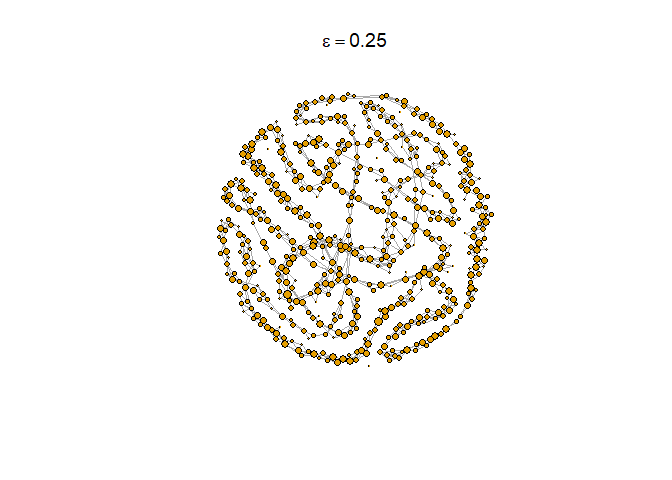
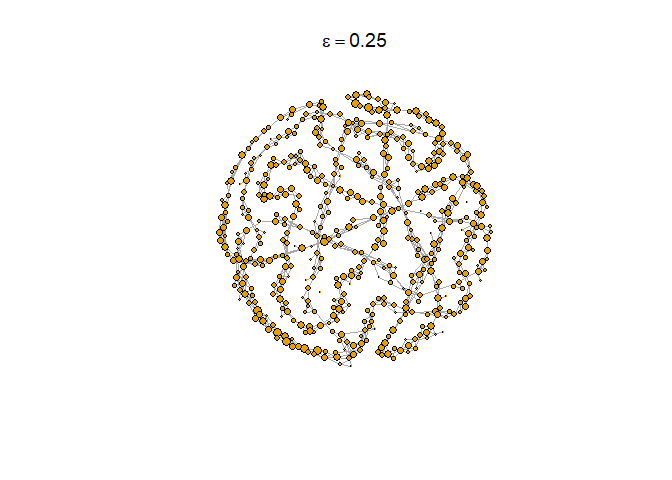
add math and sectioning to readme

Changed region(s): [[0.3125, 0.1875, 0.75, 0.7812]]

diff --git a/README.md b/README.md
@@ -28,9 +28,125 @@ If you’re installing from Github, you might need to do some more stuff:
 - **OS X:** install Xcode (from the Mac App Store)
 - **Linux:** run `apt-get install r-base-dev` (or similar).
 
-## Examples
+## Mathy Overview
+
+Mapper is a way to view a point cloud $P$ through a “lens” of our
+choice.
+
+Consider a function $$f: P \to \mathbb{R}$$. Cover $\mathbb{R}$ in a set
+of intervals $\{I_i\}_{i=1}^n$, so that every point in $P$ is contained
+in some level set $L_i = f^{-1}(I_i)$. We may then construct a graph
+$$G = (V,E)$$ based on this cover to reflect the original data, where
+$$V = \{L_i \mid L_i \neq \varnothing\}$$, and
+$$E = \{\{L_i, L_j\}\mid L_i\cap L_j \neq \varnothing,\ i\neq j\}$$
+
+This is the basic idea of the mapper algorithm, with the addition that
+each level set is first refined into clusters based on the intrinsic
+pairwise distances of the data according to some clustering algorithm.
+That is, we partition each level set $L_i$ into $k_i$ disjoint clusters
+$\{C_j\}_{j=1}^{k_i}$ and build a new graph $G' = (V', E')$ that is
+homomorphic to $G$ defined by
+$$V' = \bigsqcup_{i=1}^{n}\{C_j\}_{j=1}^{k_i}$$ and
+$$E' = \{\{C_i, C_j\}\mid C_i\cap C_j \neq \varnothing\}$$
+
+So in general, the ingredients to construct a mapper graph are
+
+- A data set, along with their pairwise distances
+- A *lens* function with the data as its domain (above this was
+  real-valued, but it does not have to be)
+- A cover of the codomain of the lens function
+- A clustering algorithm
+
+## Example: 1D Mapper
+
+``` r
+num_points = 5000
+
+P.data = data.frame(
+  x = sapply(1:num_points, function(x)
+    sin(x) * 10) + rnorm(num_points, 0, 0.1),
+  y = sapply(1:num_points, function(x)
+    cos(x) ^ 2 * sin(x) * 10) + rnorm(num_points, 0, 0.1),
+  z = sapply(1:num_points, function(x)
+    10 * sin(x) ^ 2 * cos(x)) + rnorm(num_points, 0, 0.1)
+)
+
+P.dist = dist(P.data)
+```
+
+Here is a point cloud $P$ formed by adding a bit of uniform noise to
+5000 points regularly sampled from the parametric curve
+
+$$\gamma(t) = \begin{cases}x = 10\sin(x)\\ y=10\sin(x)\cos^2(x)\\ z=10\sin^2(x)\cos(x) \end{cases}$$
+<img src="README_files/figure-gfm/fig8-1.png" />
+
+This seems to form a kind of figure-8 curve just based on this
+projection. But as we can see from the 2D projections, the “shape” of
+the data set we’re seeing really does depend on how we’re looking at it:
 
 <img src="README_files/figure-gfm/plotting the curve-1.png" style="display: block; margin: auto;" />
+We will build graphs using the outline of the mapper algorithm
+described, with real-valued lens functions. The parameters used to
+generate the graphs below were:
+
+- Data: figure-8
+- Lens: Projection to each factor, or eccentricity (a measure of
+  centrality per data point)
+- Cover: A cover of $\mathbb{R}$ (really, just up to the extremes of the
+  function values) using 10 equally spaced intervals with 25% overlap
+  between each consecutive interval
+- Clustering method: Single-linkage hierarchical clustering
+
+``` r
+# lens functions
+projx = P.data$x
+projy = P.data$y
+projz = P.data$z
+eccentricity = apply(as.matrix(P.dist), 1, sum) / num_points
+
+# cover parameters to generate a width-balanced cover
+num_bins = 10
+percent_overlap = 25
+
+xmapper = get_1D_mapper_data(P.data, projx, P.dist, num_bins, percent_overlap, "single")
+ymapper = get_1D_mapper_data(P.data, projy, P.dist, num_bins, percent_overlap, "single")
+zmapper = get_1D_mapper_data(P.data, projz, P.dist, num_bins, percent_overlap, "single")
+eccentricmapper = get_1D_mapper_data(P.data, eccentricity, P.dist, num_bins, percent_overlap, "single")
+```
+
+The vertices in each output graph below are colored according to the
+level set the cluster belongs to, and scaled by (the square root of) the
+number of data points in the cluster.
 
 <img src="README_files/figure-gfm/mapping the mapper-1.png" width="50%" /><img src="README_files/figure-gfm/mapping the mapper-2.png" width="50%" /><img src="README_files/figure-gfm/mapping the mapper-3.png" width="50%" /><img src="README_files/figure-gfm/mapping the mapper-4.png" width="50%" />
+
+## Example: ballmapper
+
+By toying with the general mapper parameters, we can obtain different
+flavors of the algorithm. In the *ballmapper* flavor, we simply use the
+inclusion into the ambient space of the data as our lens function, and
+let the cover do the work. Specifically, we cover the ambient space with
+$\varepsilon$-balls by creating a $\varepsilon$-net, which can be done
+with a greedy algorithm.
+
+Parameters:
+
+- Data: figure-8
+- Cover: set of $\varepsilon$-balls in $\mathbb{R^3}$
+- Lens function: inclusion from $P\hookrightarrow\mathbb{R}^3$
+- Clustering method: none (or, “any data set is one big cluster”-type
+  clustering)
+
+There’s a secret parameter here, which is $\varepsilon$. Below are
+output graphs for varying values of $\varepsilon$; the sizing is as with
+the 1D mapper, but no coloring is done as each vertex would have to
+receive its own color in this flavor, which is redundant.
+
+``` r
+ballmapper1 = get_ballmapper_data(P.data, P.dist, .25)
+ballmapper2 = get_ballmapper_data(P.data, P.dist, .5)
+ballmapper3 = get_ballmapper_data(P.data, P.dist, 1)
+ballmapper4 = get_ballmapper_data(P.data, P.dist, 2)
+```
+
 <img src="README_files/figure-gfm/ballmapper time-1.png" width="50%" /><img src="README_files/figure-gfm/ballmapper time-2.png" width="50%" /><img src="README_files/figure-gfm/ballmapper time-3.png" width="50%" /><img src="README_files/figure-gfm/ballmapper time-4.png" width="50%" />
